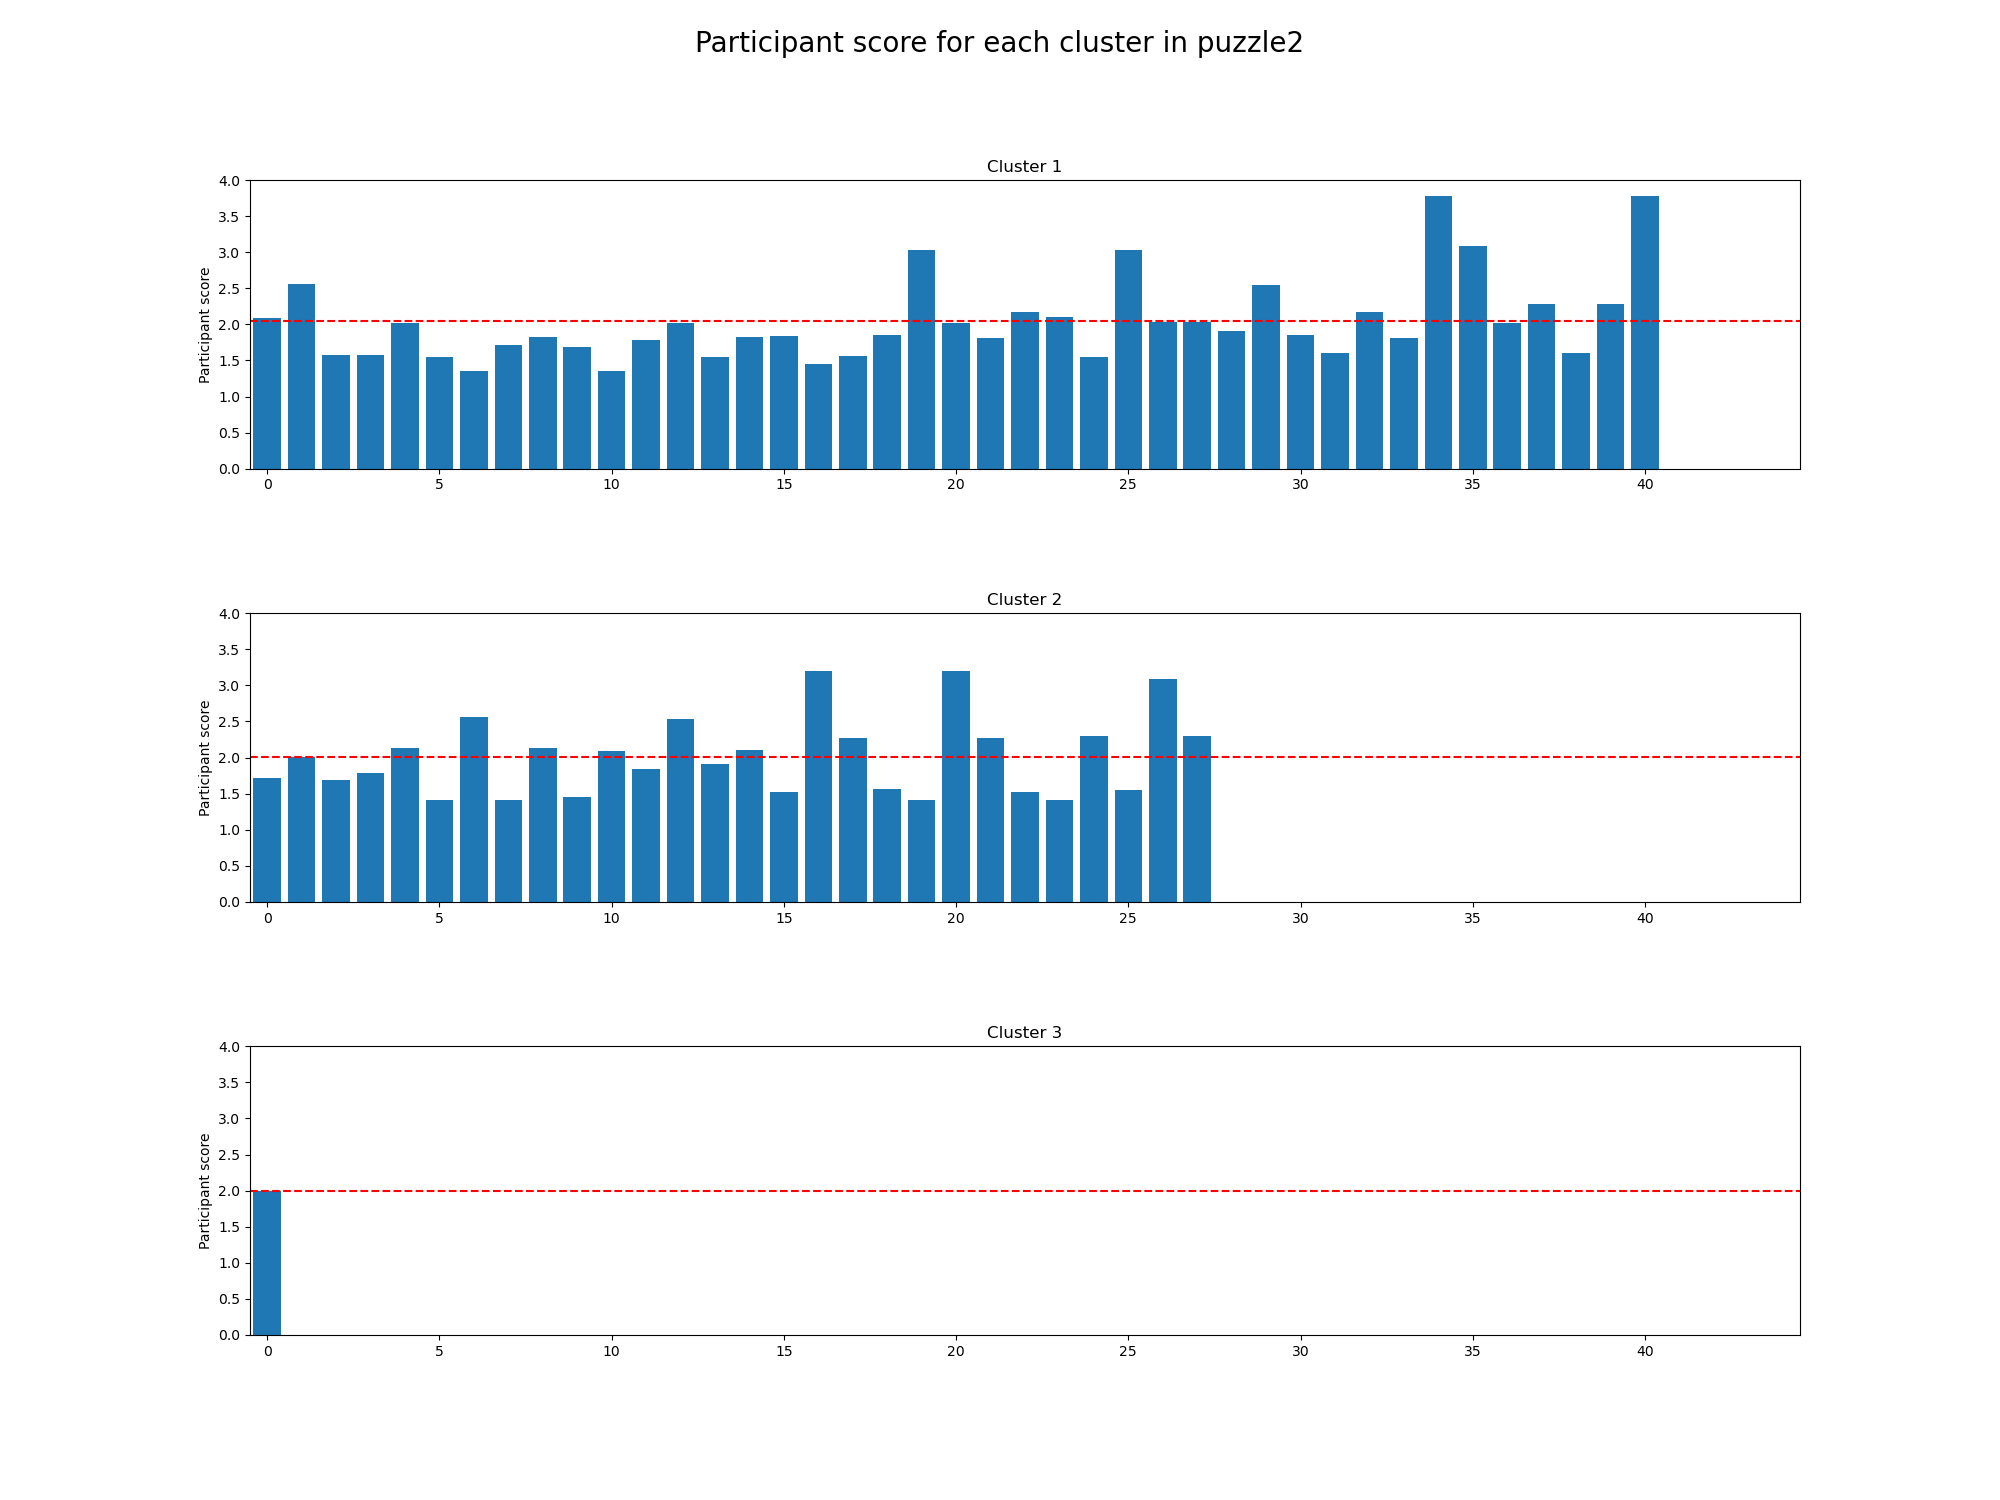
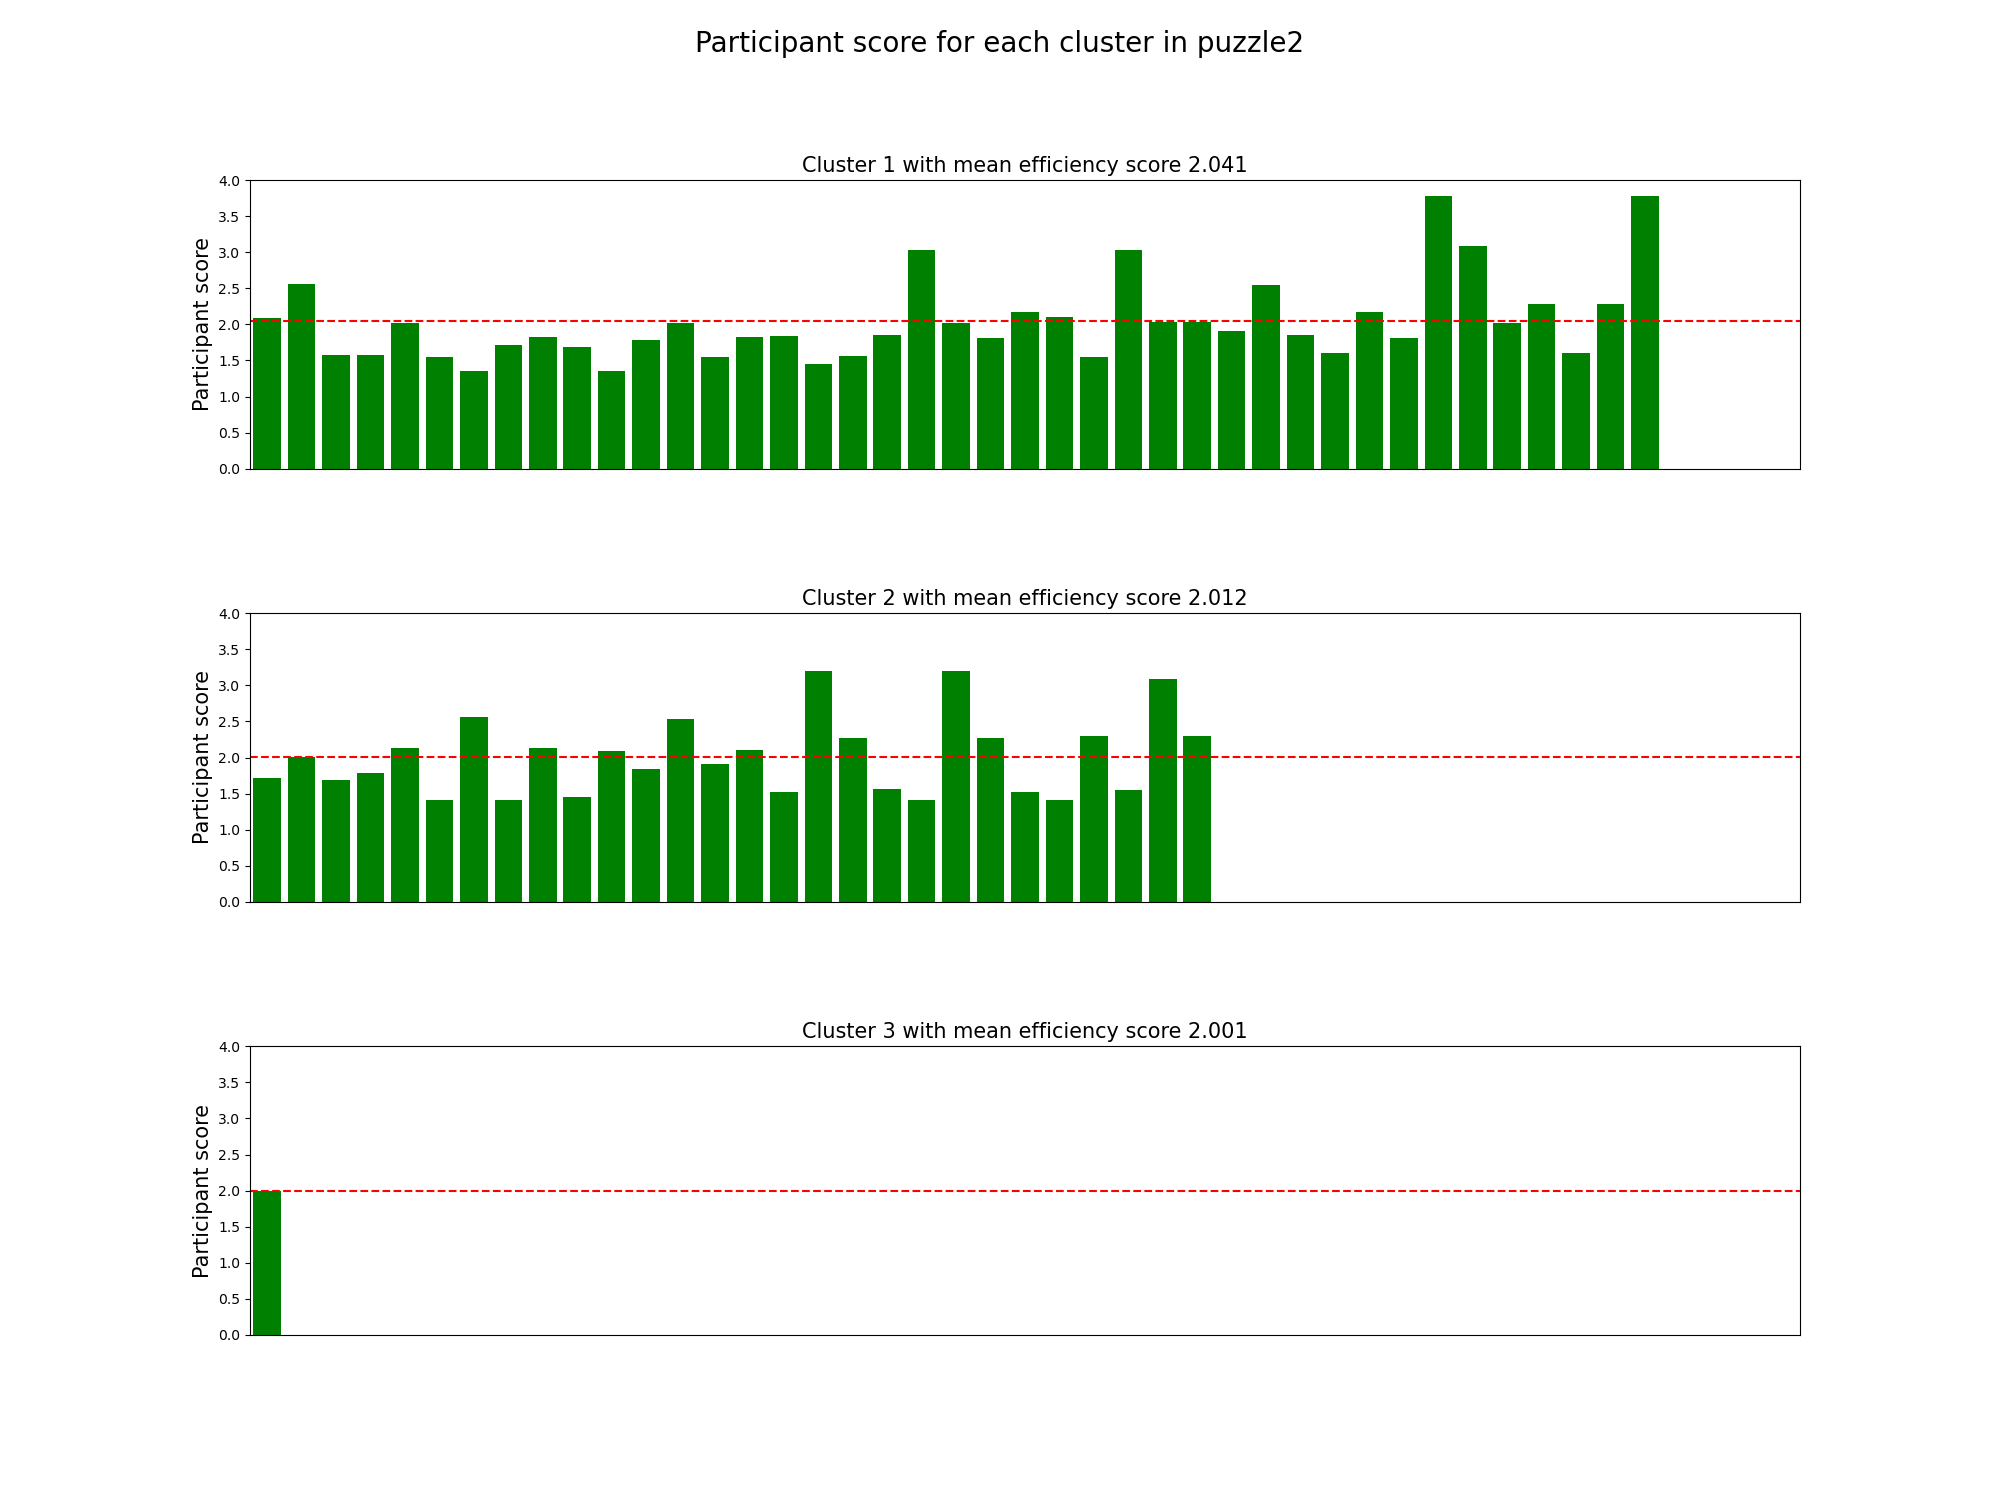
new clusters efficency plots with removing duplicated participants, and with different coloring for (un)successful solutions

diff --git a/SRC/efficiencyCluster.py b/SRC/efficiencyCluster.py
@@ -3,6 +3,8 @@ import json
 import pandas as pd
 import numpy as np
 import matplotlib.pyplot as plt
+import re
+
 
 # Load the participant distance file
 participant_distance_file = './Data/participants_distances_1.csv'
@@ -31,19 +33,68 @@ for file_name in os.listdir(clustering_results_dir):
 
                     for cluster in cluster_ids.keys():
                         ids = cluster_ids[cluster]
-                        ids = [int(i.split('_')[0]) for i in ids]
+                        ids_solved = []
+
+                        for id in ids:
+                            try:
+                                filenameTemp = [f for f in os.listdir('./Data/Pilot3/Ego-based/') if f.endswith(f'{id}.json')][0]
+                                dataTemp = json.load(open(f'./Data/Pilot3/Ego-based/{filenameTemp}'))
+
+                                try:
+                                    df = pd.DataFrame(dataTemp)
+                                except:
+                                    df = pd.DataFrame(dataTemp, index=[0])
+                            
+                        
+                                solved = df['solved'].values[0]
+                                if solved == 1:
+                                    ids_solved.append(id)
+                
+                            except:
+                                filenameTemp= [f for f in os.listdir('./Data/Pilot4/Ego-based/') if f.endswith(f'{id}.json')][0]
+                                dataTemp = json.load(open(f'./Data/Pilot4/Ego-based/{filenameTemp}'))
+
+
+                                try:
+                                    df = pd.DataFrame(dataTemp)
+                                except:
+                                    df = pd.DataFrame(dataTemp, index=[0])
+
+                                solved = df['solved'].values[0]
+                                if solved == 1:
+                                    ids_solved.append(id)
+
+                        colors= np.empty(len(ids), dtype=object)
+
+                        for i in range(len(ids)):
+                            if ids[i] in ids_solved:
+                                colors[i] = 'green'
+                            else:
+                                colors[i] = 'red'
+
+                        ids = [int(i.split('_')[0]) for i in ids] #This is the participant id
                         ids = np.array(ids)
+                        #only get the unique ids
+                        # ids = np.unique(ids)
+
+                        colors = colors[~np.isin(ids, [40, 38, 32])]
                         ids = ids[~np.isin(ids, [40, 38, 32])]
-                        if len(ids)!=0:
+                        #remove the ids that are not in the participant_distances
+ 
+                        if len(ids) != 0:
                             participant_scores = participant_distances.loc[ids].values.flatten()
-                            axs[int(cluster)-1].bar(np.arange(len(ids)), participant_scores)
+                            #multiply the the binary ids_solved by a green or red color so that if 1 it is green and if 0 it is red
+                            
+                            axs[int(cluster)-1].bar(np.arange(len(ids)), participant_scores, color=colors)
                             axs[int(cluster)-1].set_ylim(0, 4)
-                            axs[int(cluster)-1].set_xlim(-0.5, max_solutions+0.5)
-                            axs[int(cluster)-1].set_title('Cluster ' + cluster)
-                            axs[int(cluster)-1].set_ylabel('Participant score')
-                            #plot the line at the mean
+                            axs[int(cluster)-1].set_xlim(-0.5, max_solutions + 0.5)
+                            # remove the x ticks
+                            axs[int(cluster)-1].set_xticks([])
+                            axs[int(cluster)-1].set_title('Cluster ' + cluster + ' with mean efficiency score {:.3f}'.format(np.mean(participant_scores)), fontsize=15)
+                            axs[int(cluster)-1].set_ylabel('Participant score', fontsize=15)
+                            # plot the line at the mean
                             axs[int(cluster)-1].axhline(y=np.mean(participant_scores), color='r', linestyle='--')
-                            #place a gap between the subplots
+                            # place a gap between the subplots
                             plt.subplots_adjust(hspace=0.5)
 
 

diff --git a/SRC/solvedTimeDist.py b/SRC/solvedTimeDist.py
@@ -241,7 +241,8 @@ bScore = (bScore - np.min(bScore))/(np.max(bScore) - np.min(bScore))
 plt.figure(figsize=(20,11))
 plt.suptitle('Best Time Solved [s]', fontsize=20)
 plt.subplot(1, 2, 1)
-vmax = np.max(sol_matrix1_best[sol_matrix1_best != np.inf])
+vmax_orig = np.max(sol_matrix1_best[sol_matrix1_best != np.inf])
+vmax = np.unique(sol_matrix1_best[sol_matrix1_best != np.inf])[-3]
 plt.imshow(sol_matrix1_best, cmap="hot", vmax=vmax, vmin=0)
 
 for i in range(len(unique_participants)):
@@ -275,7 +276,7 @@ plt.xlabel("Puzzle ID" , labelpad=20)
 plt.ylabel("Participant ID ", labelpad=20) 
 plt.title("Run 1" , pad=20)
 plt.text(0, 1+len(unique_participants), "N = not solved, * = missing data", ha="center", va="center", color="black", fontsize=10, fontweight="bold")
-plt.text(0, 2+len(unique_participants), "max time run 1: {} [s]".format(vmax), ha="center", va="center", color="black", fontsize=10, fontweight="bold")
+plt.text(0, 2+len(unique_participants), "max time run 1: {} [s]".format(vmax_orig), ha="center", va="center", color="black", fontsize=10, fontweight="bold")
 plt.colorbar( orientation='vertical', pad=0.1, shrink=0.5, label="Time [s]")
 
 plt.subplot(1, 2, 2)
